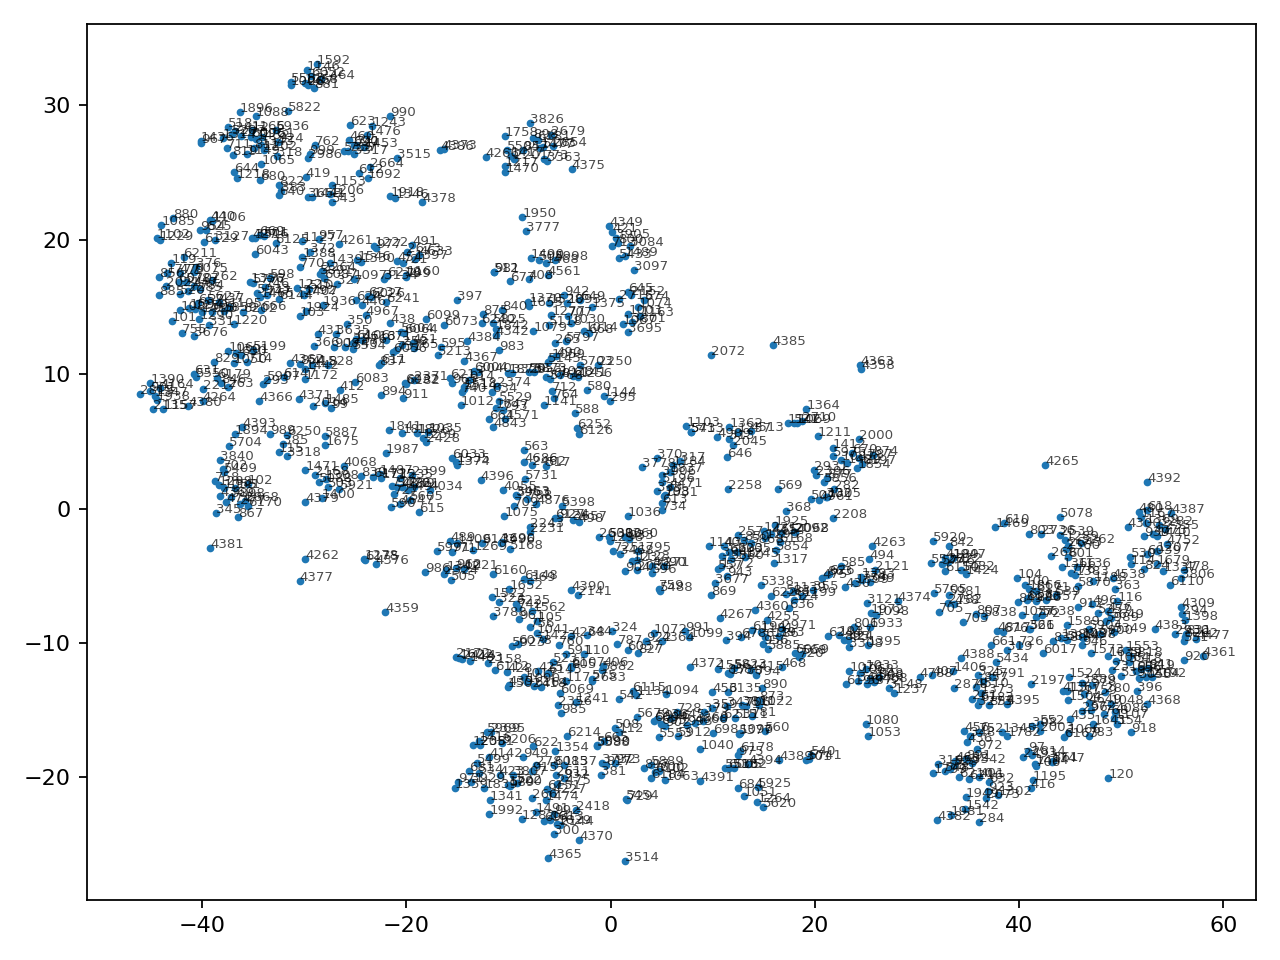
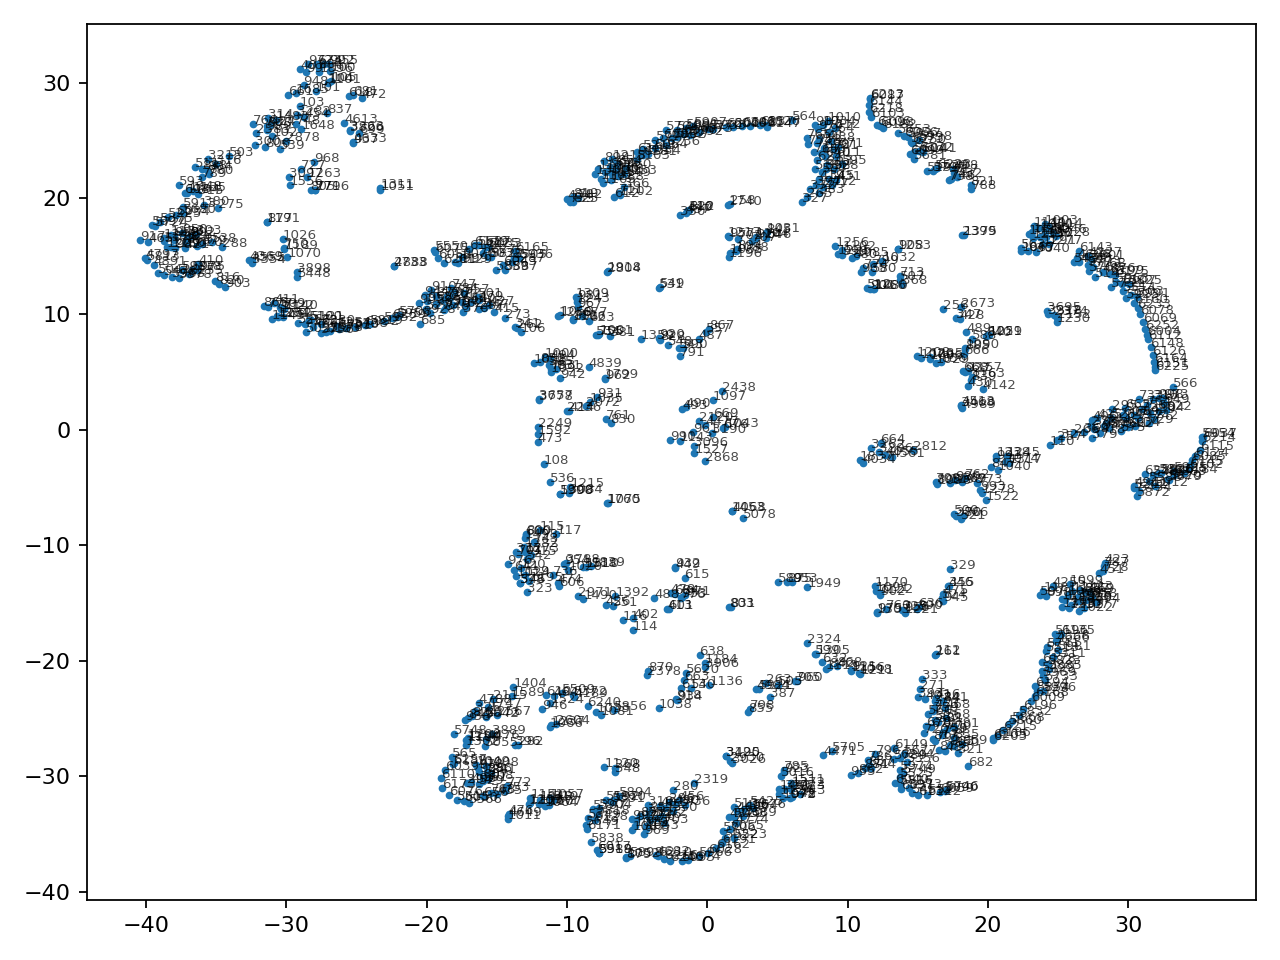
some progress on signal2vec

diff --git a/ecg_bench/ecg_tokenizers/build_signal2vec.py b/ecg_bench/ecg_tokenizers/build_signal2vec.py
@@ -12,6 +12,7 @@ import torch.nn.functional as F
 from sklearn.manifold import TSNE
 from torch.utils.data import Dataset, DataLoader
 from tqdm import tqdm
+import random
 
 from ecg_bench.utils.file_manager import FileManager
 from ecg_bench.ecg_tokenizers.build_ecg_tokenizers import BuildECGByte
@@ -45,32 +46,43 @@ class SkipGramNeg(nn.Module):
         return ((self.center.weight + self.context.weight) / 2).detach().clone()
 
 
-def _pairs_from_sequence_dynamic(seq: List[int], win_max: int) -> List[Tuple[int, int]]:
-    pairs = []
-    L = len(seq)
-    for i, c in enumerate(seq):
-        w = np.random.randint(1, win_max + 1)
-        left, right = max(0, i - w), min(L, i + w + 1)
-        for j in range(left, right):
-            if j != i:
-                pairs.append((c, seq[j]))
-    return pairs
-
-
 class SkipGramDataset(Dataset):
     def __init__(self, sequences: List[List[int]], window_max: int, neg_k: int, noise_dist: np.ndarray):
-        self.pairs = []
-        for s in sequences:
-            if len(s) > 1:
-                self.pairs.extend(_pairs_from_sequence_dynamic(s, window_max))
+        self.sequences = [s for s in sequences if len(s) > 1]
+        self.window_max = window_max
         self.neg_k = neg_k
         self.alias_prob, self.alias_idx = self._alias_setup(noise_dist)
 
+        estimated_total = sum(len(s) * window_max for s in self.sequences)
+        self.max_samples = min(10_000_000, estimated_total)
+
+        if hasattr(self, "dev_mode") and self.dev_mode:
+            self.max_samples = min(100_000, self.max_samples)
+
+        print(f"SkipGramDataset: {len(self.sequences)} sequences, ~{estimated_total:,} estimated pairs, using {self.max_samples:,} samples")
+
     def __len__(self):
-        return len(self.pairs)
+        return self.max_samples
 
     def __getitem__(self, idx: int):
-        c, p = self.pairs[idx]
+        # Randomly sample a sequence and generate a pair on-demand
+        seq = random.choice(self.sequences)
+        if len(seq) < 2:
+            # Fallback for very short sequences
+            c = p = seq[0] if seq else 0
+        else:
+            # Generate a random pair from this sequence
+            i = np.random.randint(0, len(seq))
+            c = seq[i]
+            # Sample positive context within window
+            w = np.random.randint(1, self.window_max + 1)
+            left, right = max(0, i - w), min(len(seq), i + w + 1)
+            context_indices = [j for j in range(left, right) if j != i]
+            if context_indices:
+                p = seq[np.random.choice(context_indices)]
+            else:
+                p = seq[np.random.randint(0, len(seq))]
+
         n = self._alias_draw(self.neg_k)
         mask = n == p
         if mask.any():
@@ -110,13 +122,15 @@ class SkipGramDataset(Dataset):
         return out.astype(np.int64)
 
 
-class Signal2Vec:
+class BuildSignal2Vec:
     def __init__(self, fm: FileManager, ecg_byte_builder: BuildECGByte, args: argparse.Namespace):
         self.args = args
         self.fm = fm
         self.ecg_byte_builder = ecg_byte_builder
-        with open(self.args.sampled_file) as f:
-            self.sampled_file_paths = [ln.strip() for ln in f if ln.strip()]
+
+        if hasattr(self.args, "sampled_file") and self.args.sampled_file:
+            with open(self.args.sampled_file) as f:
+                self.sampled_file_paths = [ln.strip() for ln in f if ln.strip()]
 
     def train(self):
         raw_sequences = self._load_token_sequences()
@@ -155,6 +169,9 @@ class Signal2Vec:
             neg_k=int(self.args.neg_k),
             noise_dist=noise_dist,
         )
+        # Add dev mode flag if available
+        if hasattr(self.args, "dev") and self.args.dev:
+            ds.dev_mode = True
         num_workers = int(getattr(self.args, "num_workers", 0))
         dl = DataLoader(
             ds,

diff --git a/test_signal2vec_fix.py b/test_signal2vec_fix.py
@@ -1,0 +1,52 @@
+#!/usr/bin/env python3
+"""
+Test script to verify the signal2vec memory fix works
+"""
+
+import sys
+import os
+
+sys.path.append(os.path.dirname(os.path.abspath(__file__)))
+
+from ecg_bench.ecg_tokenizers.signal2vec import SkipGramDataset
+import numpy as np
+
+
+def test_memory_efficiency():
+    """Test that the new SkipGramDataset doesn't consume excessive memory"""
+    print("Testing memory-efficient SkipGramDataset...")
+
+    # Create some test sequences (simulate ECG token sequences)
+    sequences = []
+    for i in range(1000):  # 1000 sequences
+        # Each sequence has 100-500 tokens (typical ECG sequence length)
+        seq_len = np.random.randint(100, 500)
+        seq = np.random.randint(0, 1000, size=seq_len).tolist()  # vocab size 1000
+        sequences.append(seq)
+
+    # Create noise distribution
+    vocab_size = 1000
+    noise_dist = np.ones(vocab_size) / vocab_size
+
+    # Test the old approach would have created ~1000 * 300 * 12 = 3.6M pairs
+    # The new approach should use much less memory
+    print(f"Created {len(sequences)} test sequences")
+
+    # Create dataset
+    dataset = SkipGramDataset(sequences=sequences, window_max=12, neg_k=5, noise_dist=noise_dist)
+
+    print(f"Dataset length: {len(dataset):,}")
+    print("Memory usage should be minimal (no pre-generated pairs)")
+
+    # Test sampling a few items
+    print("\nTesting data sampling...")
+    for i in range(5):
+        c, p, n = dataset[i]
+        print(f"Sample {i}: center={c.item()}, positive={p.item()}, negative={n.shape}")
+
+    print("\n✅ Memory efficiency test passed!")
+    return True
+
+
+if __name__ == "__main__":
+    test_memory_efficiency()

diff --git a/ecg_bench/elms/ecg_encoder/signal2vec.py b/ecg_bench/elms/ecg_encoder/signal2vec.py
@@ -1,0 +1,31 @@
+from torch import nn
+import torch
+
+from ecg_bench.configs.constants import HF_LLMS
+
+
+class Signal2Vec(nn.Module):
+    def __init__(self, signal2vec_builder, projection_dim, llm_id):
+        super(Signal2Vec, self).__init__()
+        self.llm = llm_id
+        self.signal2vec_builder = signal2vec_builder
+        self.signal2vec_embeddings = signal2vec_builder.load_embeddings(self.signal2vec_builder.args.signal2vec_embeddings)
+        vocab_size = int(self.signal2vec_embeddings.size(0))
+        self.embedding = nn.Embedding(vocab_size, projection_dim)
+        with torch.no_grad():
+            if (
+                self.signal2vec_embeddings is not None
+                and self.signal2vec_embeddings.size(0) == vocab_size
+                and self.signal2vec_embeddings.size(1) == projection_dim
+            ):
+                self.embedding.weight.copy_(self.signal2vec_embeddings)
+        self.embedding.weight.requires_grad_(False)
+
+        self.projection = nn.Linear(projection_dim, HF_LLMS[self.llm]["model_hidden_size"]).to(dtype=HF_LLMS[self.llm]["native_dtype"])
+
+    def forward(self, batch):
+        symbols, _ = self.signal2vec_builder.ecg_byte_builder.ecg_to_symbol(batch["ecg_signal"])
+        tokens = self.signal2vec_builder.ecg_byte_builder.encode(symbols)
+        token_embeddings = self.embedding(tokens)
+        projected_embeds = self.projection(token_embeddings)
+        return projected_embeds

diff --git a/ecg_bench/elms/build_encoder.py b/ecg_bench/elms/build_encoder.py
@@ -39,6 +39,8 @@ class BuildEncoder:
     ):
         if self.args.encoder == "projection":
             return self.build_projection()
+        elif self.args.encoder == "signal2vec":
+            return self.build_signal2vec()
         elif self.args.encoder == "merl":
             return self.build_merl()
         elif self.args.encoder == "mtae":
@@ -49,6 +51,20 @@ class BuildEncoder:
             return self.build_st_mem()
         else:
             raise ValueError(f"{self.args.encoder} not supported.")
+
+    def build_signal2vec(
+        self,
+    ):
+        from ecg_bench.elms.ecg_encoder.signal2vec import Signal2Vec
+        from ecg_bench.ecg_tokenizers.build_signal2vec import BuildSignal2Vec
+        from ecg_bench.utils.file_manager import FileManager
+        from ecg_bench.ecg_tokenizers.build_ecg_tokenizers import BuildECGByte
+
+        fm = FileManager()
+        ecg_byte_builder = BuildECGByte(self.args, "signal2vec")
+        signal2vec_builder = BuildSignal2Vec(fm, ecg_byte_builder, self.args)
+        ecg_encoder = Signal2Vec(signal2vec_builder, ECG_ENCODERS[self.args.encoder]["projection_dim"], self.args.llm)
+        return {"encoder": ecg_encoder}
 
     def build_merl(
         self,

diff --git a/ecg_bench/train_signal2vec.py b/ecg_bench/train_signal2vec.py
@@ -1,5 +1,5 @@
 # main.py
-from ecg_bench.ecg_tokenizers.signal2vec import Signal2Vec
+from ecg_bench.ecg_tokenizers.build_signal2vec import BuildSignal2Vec
 from ecg_bench.configs.config import get_args
 from ecg_bench.utils.file_manager import FileManager
 from ecg_bench.configs.constants import CONFIG_DIR
@@ -14,9 +14,9 @@ if __name__ == "__main__":
     fm.ensure_directory_exists(folder=args.save_path)
     fm.save_config(args.save_path, args)
     ecg_byte_builder = BuildECGByte(args, mode)
-    s2v = Signal2Vec(fm, ecg_byte_builder, args)
-    s2v.train()
+    s2v = BuildSignal2Vec(fm, ecg_byte_builder, args)
+    # s2v.train()
 
-    emb = Signal2Vec.load_embeddings(f"{args.save_path}/embeddings.pt")
+    emb = BuildSignal2Vec.load_embeddings(f"{args.save_path}/embeddings.pt")
     example_id = 1727
     print("Vector for token 1727:", emb[example_id][:8])

diff --git a/ecg_bench/configs/config.py b/ecg_bench/configs/config.py
@@ -11,6 +11,7 @@ def get_args(mode: Mode) -> argparse.Namespace:
     parser.add_argument("--dev", action="store_true", default=None, help="Development mode")
     if mode in {"train", "eval", "inference", "post_train", "ecg_tokenizer", "signal2vec"}:
         parser.add_argument("--ecg_tokenizer", type=str, default=None, help="Path to ECG Tokenizer")
+        parser.add_argument("--signal2vec_embeddings", type=str, default=None, help="Path to Signal2Vec embeddings file")
     if mode in {"train", "eval", "inference", "post_train", "preprocess"}:
         parser.add_argument("--segment_len", type=int, default=1250, help="ECG Segment Length")
     if mode in {"train", "eval", "inference", "post_train"}:

diff --git a/ecg_bench/configs/constants.py b/ecg_bench/configs/constants.py
@@ -187,6 +187,13 @@ ECG_TOKEN_PREFIX = "signal_"
 
 # Encoders
 ECG_ENCODERS = {
+    "signal2vec": {
+        "find_unused_parameters": False,
+        "strict": False,
+        "model_hidden_size": None,
+        "projection_dim": 128,
+        "encoder_input_len": None,
+    },
     "merl": {
         "model": "resnet101",
         "tokenizer": "ncbi/MedCPT-Query-Encoder",
